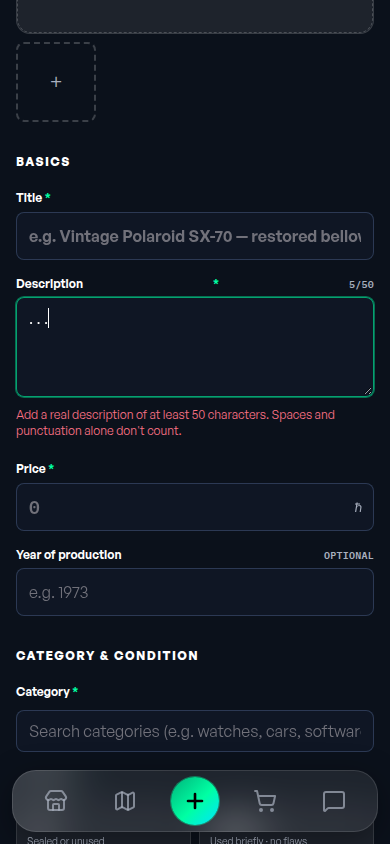
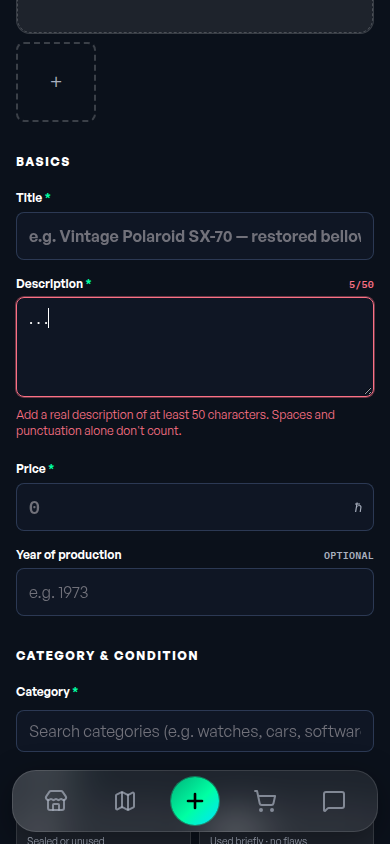
Tighten the create-form description error state.
Keep the required mark beside Description, and paint the invalid field border and the under-50 counter in the same red as the message.

Changed region(s): [[0.8923, 0.3081, 0.9538, 0.3697], [0.0308, 0.3389, 0.0615, 0.4621], [0.9538, 0.3697, 0.9846, 0.4621]]

diff --git a/frontend/app/create/page.tsx b/frontend/app/create/page.tsx
@@ -372,6 +372,9 @@ function CreatePageContent() {
     };
   }, [mediaItems.length, duplicateMediaCount, title, description, price, category, variants]);
   const isValid = !Object.values(validation).some(Boolean);
+  const descriptionCount = description.trim().length;
+  const descriptionInvalid =
+    (triedSubmit || descriptionCount > 0) && validation.description != null;
 
   const handleSubmit = async () => {
     setSubmitError(null);
@@ -638,17 +641,28 @@ function CreatePageContent() {
 
                   <label className="block">
                     <span className="flex items-baseline justify-between text-xs font-semibold text-white">
-                      Description <span className="text-chrome">*</span>
-                      <span className="font-mono text-[10px] uppercase tracking-wide text-silver">
-                        {description.trim().length}/50
+                      <span>
+                        Description <span className="text-chrome">*</span>
+                      </span>
+                      <span
+                        className={cn(
+                          "font-mono text-[10px] uppercase tracking-wide",
+                          descriptionCount >= 50 ? "text-silver" : "text-rose-400",
+                        )}
+                      >
+                        {descriptionCount}/50
                       </span>
                     </span>
                     <textarea
                       value={description}
                       onChange={(e) => setDescription(e.target.value)}
-                      className="input-frost mt-1 w-full min-h-[100px] resize-y text-base"
+                      className={cn(
+                        "input-frost mt-1 w-full min-h-[100px] resize-y text-base",
+                        descriptionInvalid &&
+                          "border-rose-400 focus:border-rose-400 focus:ring-rose-400/40",
+                      )}
                       placeholder="What makes it worth buying? Condition notes, what's included, any flaws."
-                      aria-invalid={validation.description ? true : undefined}
+                      aria-invalid={descriptionInvalid ? true : undefined}
                     />
                     {(triedSubmit || description.trim().length > 0) && validation.description && (
                       <span className="mt-1 block text-xs text-rose-400" role="alert">
